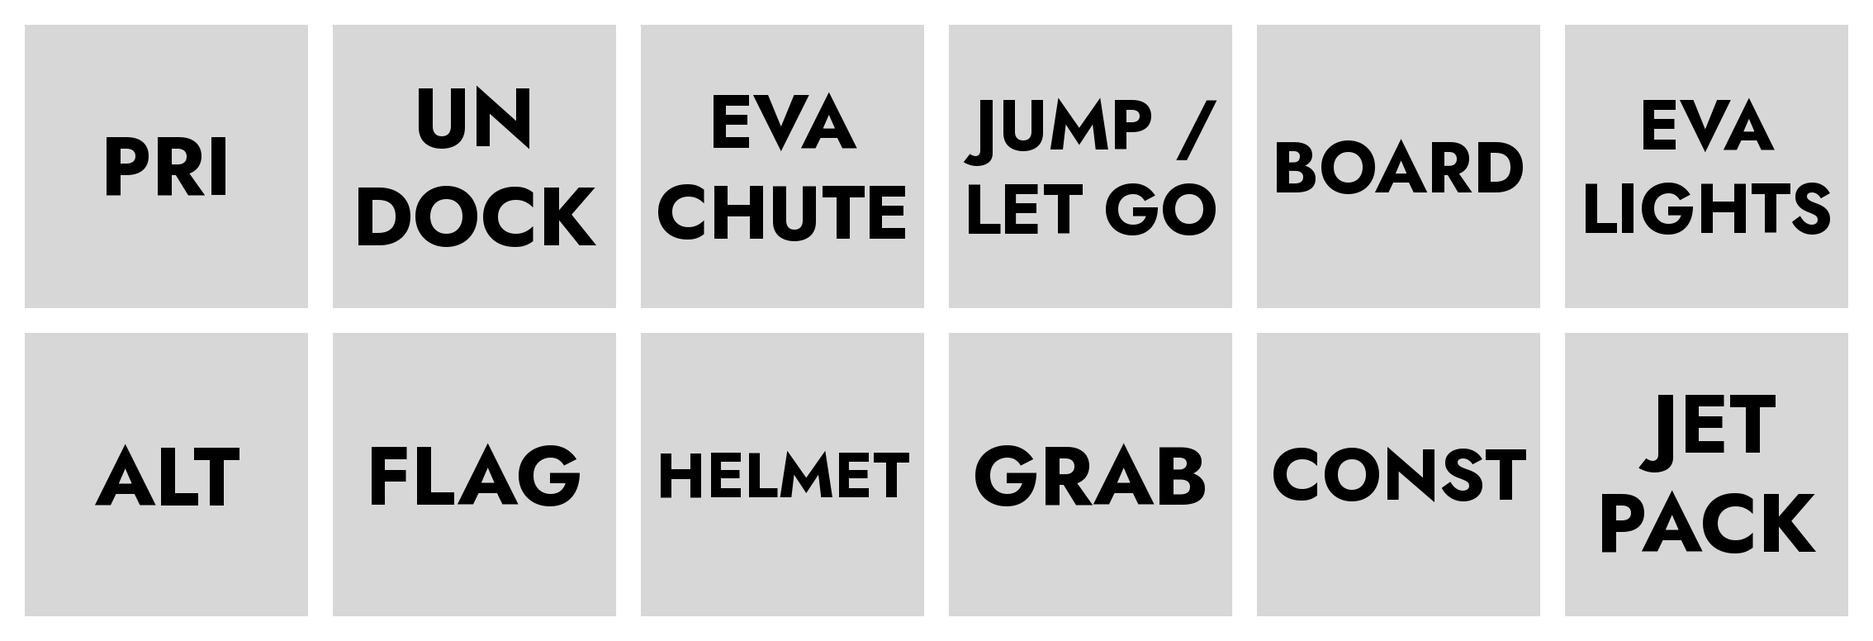
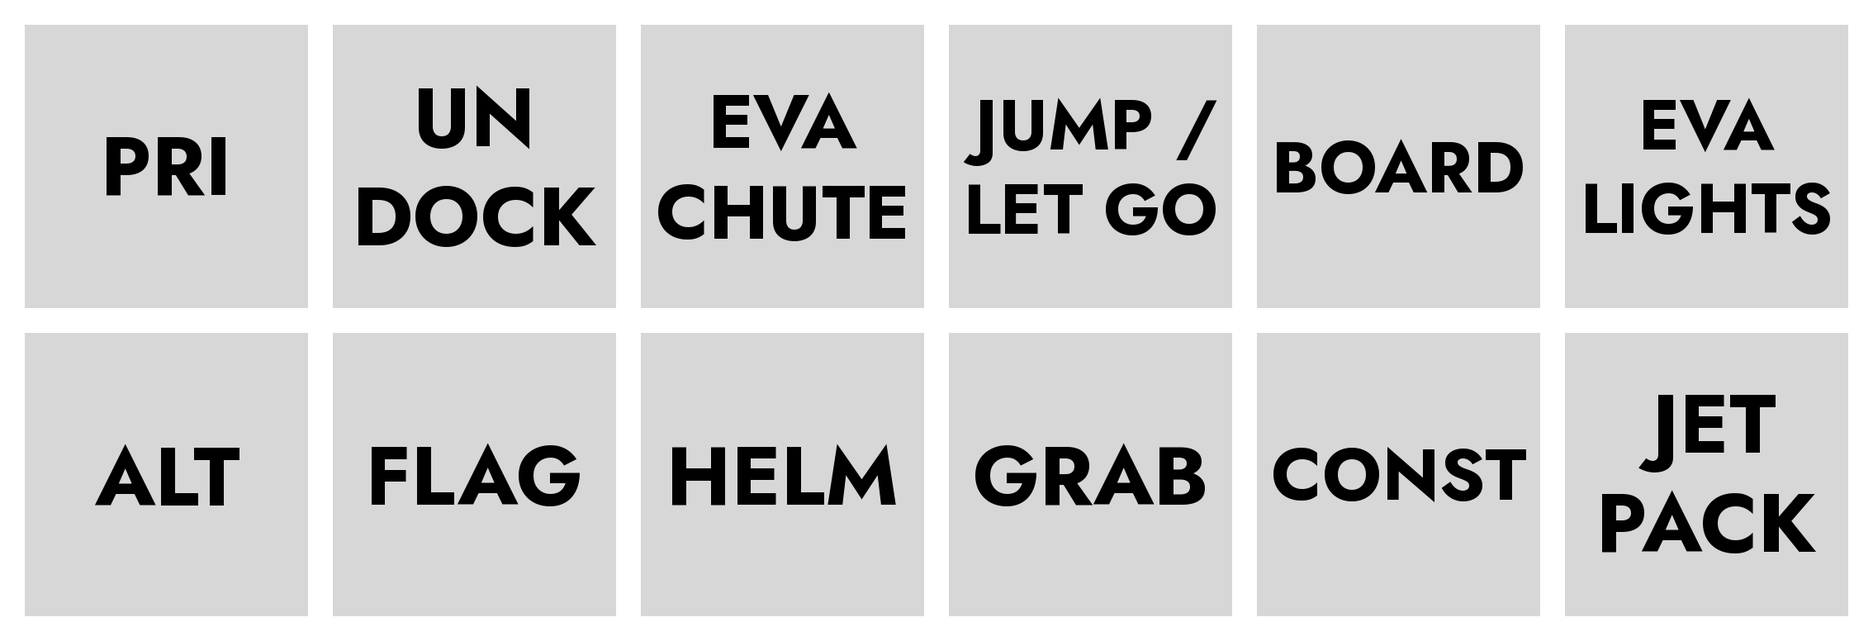
Labels: AUX CTRL B7 is HELM; UNDOCK written UN DOCK throughout
- Panel label artwork: b2_labels.py prints HELM for AUX CTRL B7 (was HELMET);
  B07_HELM.png replaces B07_HELMET.png and the AUX layout preview is regenerated.
  The rest of the B2 set regenerates byte-identical with the same Jost font.
- The Auxiliary Control tester and its simulator name B7 HELM and B8 UN DOCK.
- B8 is written UN DOCK, as on the label and in the manual, in the Hardware
  Inventory, Master Firmware Design, Module UI Reference, the Auxiliary Control
  README, sketch comments and panel layout, and the master README and tests.
  Code identifiers (B_UNDOCK, CAG_UNDOCK) are unchanged.

Master selftest 499/499 and the module-tester simulations pass.

Claude-Session: https://claude.ai/code/session_01AfFKiY5R8Xk7jem2zcWdES

Changed region(s): [[0.3395, 0.6804, 0.4938, 0.8041]]

diff --git a/Software/KCMk1_Master/tools/tests/test_stage4.cpp b/Software/KCMk1_Master/tools/tests/test_stage4.cpp
@@ -1,6 +1,6 @@
 // Stage 4 selftest: the flight panels — Vehicle (BRAKES, toggles, CAG buttons with the
 // control-group offset, the state machines), Stability (SAS modes, HOLD, INVERT),
-// Action, AUX (EVA keys, UNDOCK, control points), Dual Encoder, demo, and keys released
+// Action, AUX (EVA keys, UN DOCK, control points), Dual Encoder, demo, and keys released
 // when a flight ends.
 #include "harness.h"
 #include "switches.h"
@@ -211,7 +211,7 @@ static void testActionAux(Bench &b) {
   eva(false); runFor(20);
   stubSimpit().sent.clear();
   tap(x, 1u << 8);
-  CHECK(sent(CAGTOGGLE_MESSAGE, 37) == 1, "UNDOCK: CAG 37");
+  CHECK(sent(CAGTOGGLE_MESSAGE, 37) == 1, "UN DOCK: CAG 37");
   cags({ 36 }); runFor(20);
   stubSimpit().sent.clear();
   tap(x, 1u << 10);

diff --git a/Documents/Labels/tools/b2_labels.py b/Documents/Labels/tools/b2_labels.py
@@ -31,7 +31,7 @@ MODULES = [
     6: ["SOI"], 7: "<", 8: ["MORN"], 9: ["LOAD"], 10: ["PAUSE"], 11: ["SAVE"]}),
   ("AUX_CTRL_0x26", SQUARE, GRID_1801, {
     0: ["EVA", "LIGHTS"], 1: ["JET", "PACK"], 2: ["BOARD"], 3: ["CONST"], 4: ["JUMP /", "LET GO"],
-    5: ["GRAB"], 6: ["EVA", "CHUTE"], 7: ["HELMET"], 8: ["UN", "DOCK"], 9: ["FLAG"], 10: ["PRI"], 11: ["ALT"]}),
+    5: ["GRAB"], 6: ["EVA", "CHUTE"], 7: ["HELM"], 8: ["UN", "DOCK"], 9: ["FLAG"], 10: ["PRI"], 11: ["ALT"]}),
   ("Vehicle_Control_0x24", WIDE, GRID_1811, {
     0: ["BRAKES"], 1: ["LIGHTS"], 2: ["ANTENNA"], 3: ["LANDING", "GEAR"], 4: ["FUEL", "CELL"],
     5: ["SOLAR", "ARRAY"], 6: ["CARGO", "DOOR"], 7: ["RADIATOR"], 8: ["HEAT", "SHIELD"],

diff --git a/Software/Modules/0_Test Set/tools/tester_sim/scenarios.cpp b/Software/Modules/0_Test Set/tools/tester_sim/scenarios.cpp
@@ -142,7 +142,7 @@ static Scenario* kbc_time() {
 }
 static Scenario* kbc_aux() {
     return new KbcScenario({
-        {"EVA LIGHTS", 0}, {"JET PACK", 1}, {"BOARD", 2}, {"CONST", 3}, {"JUMP", 4}, {"GRAB", 5}, {"EVA CHUTE", 6}, {"HELMET", 7}, {"UNDOCK", 8}, {"FLAG", 9}, {"CP PRI", 10}, {"CP ALT", 11}},
+        {"EVA LIGHTS", 0}, {"JET PACK", 1}, {"BOARD", 2}, {"CONST", 3}, {"JUMP", 4}, {"GRAB", 5}, {"EVA CHUTE", 6}, {"HELM", 7}, {"UN DOCK", 8}, {"FLAG", 9}, {"CP PRI", 10}, {"CP ALT", 11}},
         {{100, 255, 160}, {132, 204, 22}, {0, 255, 0}, {20, 184, 166}, {163, 230, 53}, {80, 200, 160}, {255, 80, 0}, {14, 165, 233}, {255, 160, 0}, {80, 200, 160}, {255, 80, 120}, {236, 72, 153}});
 }
 

diff --git a/Software/KCMk1_Master/panel_aux.cpp b/Software/KCMk1_Master/panel_aux.cpp
@@ -4,7 +4,7 @@
      [EVA] B0 LIGHTS U, B1 JET PACK R, B2 BOARD B, B3 CONST I, B4 JUMP / LET GO Space,
            B5 GRAB F, B6 EVA CHUTE P, B7 HELM O, B9 FLAG G: a key tap each; dark outside
            EVA, and ignored. KSP reports none of them, so each flashes on a press.
-     B8    UNDOCK: CAG 37 toggle, lit while active.
+     B8    UN DOCK: CAG 37 toggle, lit while active.
      B10   [CTRL PT] PRI: CAG 35 } mutually exclusive: a press deactivates the other's
      B11   [CTRL PT] ALT: CAG 36 } group, then activates its own; the active one is lit,
                                    and pressing it does nothing.

diff --git a/Documents/Developer/Module_UI_Reference.md b/Documents/Developer/Module_UI_Reference.md
@@ -195,7 +195,7 @@ These apply to every panel unless its section says otherwise (design §8.1).
 **`CAG = base + (control group − 1) × 40`**, with the control group 1–6 from Dual Encoder ENC1 (§13).
 
 - **Exception: Action Control's AG 1–12 are never offset.** They always send CAG 1–12, whatever the control group.
-- **Everything else is offset:** Vehicle Control (including the heat-shield and parachute state machines), Function Control, and AUX CTRL's UNDOCK, PRI and ALT.
+- **Everything else is offset:** Vehicle Control (including the heat-shield and parachute state machines), Function Control, and AUX CTRL's UN DOCK, PRI and ALT.
 - **In code:** `cagNumber(base)` applies the offset and `cagFixed(n)` does not (`cag.h`).
 
 ### 4.2 Control groups
@@ -245,7 +245,7 @@ The Annunciator shows the current group.
 | 34 | LOCK SURFACES | Function Control | B2 | 34 | 74 | 114 | 154 | 194 | 234 |
 | 35 | [CTRL PT] PRI | AUX CTRL | B10 | 35 | 75 | 115 | 155 | 195 | 235 |
 | 36 | [CTRL PT] ALT | AUX CTRL | B11 | 36 | 76 | 116 | 156 | 196 | 236 |
-| 37 | UNDOCK | AUX CTRL | B8 | 37 | 77 | 117 | 157 | 197 | 237 |
+| 37 | UN DOCK | AUX CTRL | B8 | 37 | 77 | 117 | 157 | 197 | 237 |
 | 38 | AIR BRAKE | Function Control | B5 | 38 | 78 | 118 | 158 | 198 | 238 |
 | 39 | FLAPS | Function Control | B4 | 39 | 79 | 119 | 159 | 199 | 239 |
 
@@ -753,7 +753,7 @@ All CAG numbers carry the control-group offset.
 
 | | C6 | C5 | C4 | C3 | C2 | C1 |
 |---|---|---|---|---|---|---|
-| **R1** | [CTRL PT] PRI | UNDOCK | [EVA] EVA CHUTE | [EVA] JUMP / LET GO | [EVA] BOARD | [EVA] EVA LIGHTS |
+| **R1** | [CTRL PT] PRI | UN DOCK | [EVA] EVA CHUTE | [EVA] JUMP / LET GO | [EVA] BOARD | [EVA] EVA LIGHTS |
 | **R2** | [CTRL PT] ALT | [EVA] FLAG | [EVA] HELM | [EVA] GRAB | [EVA] CONST | [EVA] JET PACK |
 
 | Input | Label | Function | Active when | Action | LED | Colour today |
@@ -766,7 +766,7 @@ All CAG numbers carry the control-group offset.
 | B5 | [EVA] GRAB | Grab | EVA | Key F | As B0 | SEAFOAM |
 | B6 | [EVA] EVA CHUTE | EVA parachute | EVA | Key P | As B0 | AMBER |
 | B7 | [EVA] HELM | Helmet toggle | EVA | Key O | As B0 | SKY |
-| B8 | UNDOCK (new label) | Undock / decouple docking ports | Always | CAG 37 toggle | Lit while the group is active | GOLD |
+| B8 | UN DOCK (new label) | Undock / decouple docking ports | Always | CAG 37 toggle | Lit while the group is active | GOLD |
 | B9 | [EVA] FLAG | Plant flag | EVA | Key G | As B0 | SEAFOAM |
 | B10 | [CTRL PT] PRI | Primary control point | Always | CAG 35 (below) | Lit while active | ROSE |
 | B11 | [CTRL PT] ALT | Alternate control point | Always | CAG 36 (below) | Lit while active | PINK |
@@ -774,7 +774,7 @@ All CAG numbers carry the control-group offset.
 
 - **EVA group (B0–B7, B9):** dark outside EVA, and presses ignored. On EVA each press taps its key; KSP reports none of these states, so each flashes.
 - **PRI / ALT:** pressing one switches to that control point. It deactivates the other's CAG first, then activates its own. Its LED stays lit to show which is active. Pressing the one already active does nothing.
-- **UNDOCK, PRI and ALT** carry the control-group offset.
+- **UN DOCK, PRI and ALT** carry the control-group offset.
 
 ---
 
@@ -980,8 +980,8 @@ The confirmed behaviour is what this document describes. These items do not matc
 |---|---|---|---|---|
 | 1 | Function Control module firmware | **Fixed in v2.1 (2026-10-27).** Was: colour table in the old button order | Each colour with its function (§9.2); FLAPS SEAFOAM | Inventory §11 #4 |
 | 2 | Function Control panel label | B4 reads RW DISABLE | FLAPS | Inventory §11 #13 |
-| 3 | AUX CTRL module firmware | **Fixed in v2.1 (2026-10-27).** Was: B8 Cruise Control, B10 PRI / ALT toggle with a CORAL alternate, B11 Docking Port | B8 UNDOCK GOLD; B10 PRI ROSE; B11 ALT PINK; no alternate colour | Inventory §11 #5 |
-| 4 | AUX CTRL panel label | B8 has no label | UNDOCK | Inventory §11 #13 |
+| 3 | AUX CTRL module firmware | **Fixed in v2.1 (2026-10-27).** Was: B8 Cruise Control, B10 PRI / ALT toggle with a CORAL alternate, B11 Docking Port | B8 UN DOCK GOLD; B10 PRI ROSE; B11 ALT PINK; no alternate colour | Inventory §11 #5 |
+| 4 | AUX CTRL panel label | B8 has no label | UN DOCK | Inventory §11 #13 |
 | 5 | Stability Control module firmware | **Fixed in v2.1 (2026-10-27).** Was: B10 GREEN (RCS); B14 / B15 described as Stage / Stage Enable | B10 HOLD MAGENTA. B14 / B15 are unwired and the master ignores them | Inventory §11 #6 |
 | 6 | Pre-Warp module firmware | **Fixed in v2.1 (2026-10-31).** Was: BTN03 preset 1440 min (an Earth day) | 360 min (1 Kerbin day) | Inventory §11 #3 |
 | 7 | Button, joystick and throttle firmware | **Fixed (KerbalButtonCore 2.3, KerbalJoystickCore 2.1, Throttle 2.2; 2026-10-31).** Was: a fixed 2 s test with `delay()` inside the I2C handler, and the master kept off the bus for 2.1 s | Start / stop, no timeout, not blocking: LTG TEST lights for as long as it is held | Inventory §11 #19, design §6.4 |
@@ -998,7 +998,7 @@ The confirmed behaviour is what this document describes. These items do not matc
 | # | Item | Status |
 |---|---|---|
 | 1 | Throttle Module acts on its own buttons (§15 #9). **Decided:** the master owns the lever; the module only reports its buttons (Throttle v2.1) | Closed (v6.1) |
-| 2 | Colours for Function Control FLAPS, Stability HOLD, AUX UNDOCK and AUX ALT (§15 #1, #3, #5). **Decided:** FLAPS SEAFOAM, HOLD MAGENTA, UNDOCK GOLD, ALT PINK | Closed (v6.1) |
+| 2 | Colours for Function Control FLAPS, Stability HOLD, AUX UN DOCK and AUX ALT (§15 #1, #3, #5). **Decided:** FLAPS SEAFOAM, HOLD MAGENTA, UN DOCK GOLD, ALT PINK | Closed (v6.1) |
 | 3 | HOLD and the console's A/P OFF. **Decided:** A/P OFF releases HOLD in every mode, SPC included, like the stick's A/P disconnect (Inventory §8.10). Master v0.8.1 | Closed (v6.1) |
 | 4 | SWITCH ERR autopilot exception. Inventory §8.4 and design §8.3: "SAS or RCS while an autopilot that changes them is engaged". The code skips SAS while any autopilot or HOLD is engaged, and always checks RCS (no autopilot changes RCS). Same effect today; noted in case an autopilot ever uses RCS | Noted |
 | 5 | Camera mode on EVA. **Decided:** camera mode works on EVA too; the translation stick's EVA keys pause while its button is held (§10.2). Master v0.8.1 | Closed (v6.1) |
@@ -1025,7 +1025,7 @@ Superseded by the confirmed panel review (Inventory §10) and the master design.
 
 | Removed | Now |
 |---|---|
-| AUX CTRL B8 Cruise Control | B8 UNDOCK (CAG 37). Rover speed hold is HOLD in RVR (§8.1) |
+| AUX CTRL B8 Cruise Control | B8 UN DOCK (CAG 37). Rover speed hold is HOLD in RVR (§8.1) |
 | AUX CTRL B10 PRI / ALT toggle; B11 Docking Port control point | B10 PRI (CAG 35), B11 ALT (CAG 36); the docking-port control point is gone |
 | Stability Control B10 RCS | B10 HOLD. RCS is the Switch Group 2 RCS switch |
 | Stability Control B14 Stage, B15 Stage Enable | STAGE on the B2 safe line, with a hardware arming switch (§7) |
@@ -1062,6 +1062,6 @@ Superseded by the confirmed panel review (Inventory §10) and the master design.
 | 5.8 | 2026-06-28 | AUX CTRL 12-button firmware; `KMC_SEAFOAM` added |
 | 5.9 | 2026-06-28 | `ACTIVE_ALT` LED state added for the AUX CTRL CP toggle |
 | 6.0 | 2026-10-26 | **Rewritten from the confirmed panel review (`Hardware_Inventory.md` §7, §8, §10, §11), `Master_Firmware_Design.md` §8–§11 and the master firmware in `Software/KCMk1_Master`.** New: per-panel slot maps (A1, A2, B1, B2); confirmed button layouts and labels for every module; Switch Group 1 in its confirmed order with A/P INHIB / ARM and ENGINE SAFE / ARM; the switch rule and SWITCH ERR; the mode selector; ABORT and STAGE on the safe lines; control modes, HOLD per mode and autopilot authority; sticks (trim, stick button by mode, camera, EVA keys, precision); the throttle rules; the Dual Encoder control group; demo mode; CAG numbering with Action Control fixed; firmware and label gaps; open items. Removed: Cruise Control, Stage / Stage Enable on Stability, RW DISABLE, the RCS button, the pilot-input autopilot override, and the other superseded content listed in §17. Board numbers corrected (Throttle 1871 / 1872) |
-| 6.1 | 2026-10-27 | **Open items 1, 2, 3, 5 and 6 decided.** The Throttle Module only reports its buttons; the master moves the lever (§12.2, Throttle v2.1). Colours: FLAPS SEAFOAM, HOLD MAGENTA, UNDOCK GOLD, ALT PINK; the Function Control colours follow the confirmed layout and AUX's CORAL alternate is gone (Function / Stability / AUX v2.1). A console's A/P OFF releases HOLD in every mode (§8.2). Camera mode works on EVA (§10.2). The AIRBRK indicator follows the control group (§4.3, InfoDisp v1.17). §15 #1, #3, #5, #9 fixed. Master v0.8.1 |
+| 6.1 | 2026-10-27 | **Open items 1, 2, 3, 5 and 6 decided.** The Throttle Module only reports its buttons; the master moves the lever (§12.2, Throttle v2.1). Colours: FLAPS SEAFOAM, HOLD MAGENTA, UN DOCK GOLD, ALT PINK; the Function Control colours follow the confirmed layout and AUX's CORAL alternate is gone (Function / Stability / AUX v2.1). A console's A/P OFF releases HOLD in every mode (§8.2). Camera mode works on EVA (§10.2). The AIRBRK indicator follows the control group (§4.3, InfoDisp v1.17). §15 #1, #3, #5, #9 fixed. Master v0.8.1 |
 | 6.2 | 2026-10-31 | **Module firmware gaps closed (§15 #6, #7, #8, #10).** Pre-Warp BTN03 360 min (v2.1). Annunciator tile A/P ARM (v3.9). The bulb test is start / stop and does not block (KerbalButtonCore 2.3, KerbalJoystickCore 2.1, Throttle 2.2); LTG TEST lights for as long as it is held, at least 0.5 s. The Throttle holds the lever under an autopilot (`CMD_SET_LEVER_HOLD`, at most 0.5 s against a hand, back on release). The Info Displays name reasons 22–24. Master v0.8.2 |
 | **6.3** | **2026-10-31** | **Displays follow the demo flag only (§14, §15 #11 fixed).** In demo every display keeps its Simpit link and takes only the lifecycle; leaving demo is a fresh start on the current scene. The Resource Display keeps the vessel's bar layout across demo. Annunciator v3.10.0 (and its DOCK tile toggles on a tap), Info Display v1.18.0, Resource Display v3.15.0. Master v0.9.0 |

diff --git a/Software/Modules/Auxiliary Control/README.md b/Software/Modules/Auxiliary Control/README.md
@@ -12,7 +12,7 @@
 
 ## Overview
 
-The Auxiliary Control module (AUX CTRL) provides twelve mixed-function buttons for Kerbal Space Program: EVA kerbal controls, undocking, and vessel control-point selection. The functions are grouped by game context — most buttons act only during EVA, and UNDOCK and the two control-point buttons (PRI, ALT) work in all modes (Module UI Reference v6.0 §9.7).
+The Auxiliary Control module (AUX CTRL) provides twelve mixed-function buttons for Kerbal Space Program: EVA kerbal controls, undocking, and vessel control-point selection. The functions are grouped by game context — most buttons act only during EVA, and UN DOCK and the two control-point buttons (PRI, ALT) work in all modes (Module UI Reference v6.0 §9.7).
 
 This module replaces the former standalone 6-button EVA module (PCB KC-01-1852). It is now a standard 12-button KerbalButtonCore module built on the KC-01-1802 Button Module Base, identical in form to Action Control and UI Control.
 
@@ -48,7 +48,7 @@ Physical panel orientation: 2 rows × 6 columns. Column 6 is leftmost, Column 1 
             (left)                                                          (right)
           +-----------+-----------+-----------+-----------+-----------+-----------+
  Row 1    |    B10    |    B8     |    B6     |    B4     |    B2     |    B0     |
-          | CTRL PT   | UNDOCK    | EVA Chute | Jump /    | Board     | EVA       |
+          | CTRL PT   | UN DOCK   | EVA Chute | Jump /    | Board     | EVA       |
           | PRI       | (GOLD)    | (AMBER)   | Let Go    | Craft     | Lights    |
           | (ROSE)    |           |           |(CHARTREUSE)| (GREEN)  | (MINT)    |
           +-----------+-----------+-----------+-----------+-----------+-----------+
@@ -79,7 +79,7 @@ The function is resolved controller-side; the module reports button events only.
 | B5 | BUTTON06 | Grab | SEAFOAM | isEVA | KEYBOARD_EMULATOR F |
 | B6 | BUTTON07 | EVA Chute | AMBER | isEVA | KEYBOARD_EMULATOR P |
 | B7 | BUTTON08 | Helmet Toggle | SKY | isEVA | KEYBOARD_EMULATOR O |
-| B8 | BUTTON09 | UNDOCK | GOLD | all modes | Toggles base CAG 37; lit while KSP reports the group active |
+| B8 | BUTTON09 | UN DOCK | GOLD | all modes | Toggles base CAG 37; lit while KSP reports the group active |
 | B9 | BUTTON10 | Plant Flag | SEAFOAM | isEVA | KEYBOARD_EMULATOR G (controller flashes briefly on press, returns to ENABLED) |
 | B10 | BUTTON11 | Control point PRI | ROSE | all modes | Base CAG 35 (deactivates ALT, then activates PRI) |
 | B11 | BUTTON12 | Control point ALT | PINK | all modes | Base CAG 36 (deactivates PRI, then activates ALT) |
@@ -89,15 +89,15 @@ KBC indices 12–15 (BUTTON13–16) are no-connects on the PCB.
 #### Context Notes
 
 - **EVA buttons (B0–B7, B9)** act only when the controller has `isEVA = true`. With no kerbal on EVA the master leaves these dark (OFF) and ignores presses (Module UI Reference §9.7).
-- **UNDOCK (B8)** works in all modes. Each press toggles base CAG 37 (undock / decouple docking ports); the LED is lit while KSP reports the group active. The panel has no UNDOCK label yet (Module UI Reference §15).
+- **UN DOCK (B8)** works in all modes. Each press toggles base CAG 37 (undock / decouple docking ports); the LED is lit while KSP reports the group active. The panel has no UN DOCK label yet (Module UI Reference §15).
 - **Control-Point buttons (B10/B11)** work in all modes (see Control Point Logic below).
-- **UNDOCK, PRI and ALT** carry the control-group offset: CAG = base + (control group − 1) × 40 (Module UI Reference §4).
+- **UN DOCK, PRI and ALT** carry the control-group offset: CAG = base + (control group − 1) × 40 (Module UI Reference §4).
 - **Plant Flag (B9)** is momentary — the controller flashes the button briefly on press, then returns it to ENABLED.
 
 ### Color Design Notes
 
 - **EVA cluster (B0–B7, B9)** — each EVA action carries a distinct hue so the active kerbal action is identifiable at a glance: EVA Lights (MINT), Jetpack Enable (LIME), Board Craft (GREEN), EVA Construction (TEAL), Jump / Let Go (CHARTREUSE), Grab (SEAFOAM), EVA Chute (AMBER), Helmet Toggle (SKY), Plant Flag (SEAFOAM). Grab and Plant Flag share SEAFOAM as paired "interact with the world" actions.
-- **UNDOCK (GOLD)** — the colour this position already had as Cruise Control, kept for UNDOCK.
+- **UN DOCK (GOLD)** — the colour this position already had as Cruise Control, kept for UN DOCK.
 - **Control Point (ROSE / PINK)** — the two control-point buttons share the warm rose/pink family. ROSE is PRI (B10), PINK is ALT (B11). See Control Point Logic.
 
 ### Control Point Logic
@@ -146,7 +146,7 @@ PCB connectors P2/P3/P4 map BUTTON01–BUTTON12 to KBC indices 0–11 in order.
 | P3 | BUTTON06 | 5 | Grab |
 | P3 | BUTTON07 | 6 | EVA Chute |
 | P3 | BUTTON08 | 7 | Helmet Toggle |
-| P4 | BUTTON09 | 8 | UNDOCK |
+| P4 | BUTTON09 | 8 | UN DOCK |
 | P4 | BUTTON10 | 9 | Plant Flag |
 | P4 | BUTTON11 | 10 | Control point PRI |
 | P4 | BUTTON12 | 11 | Control point ALT |
@@ -238,4 +238,4 @@ Module Type ID 0x07 · firmware major/minor · capability flags 0x00
 |---|---|---|
 | 1.0 | 2026-06-28 | Initial release. Replaces the former standalone 6-button EVA module (KC-01-1852) with a standard 12-button KerbalButtonCore module on the KC-01-1802 Button Module Base. Adds Cruise Control (B8) and the control-point cluster (B10 CP Toggle PRI/ALT, B11 CP Docking Port). KerbalButtonCore v2.1.0, I2C protocol v2.6; core LED states only (no extended states). |
 | 1.1 | 2026-06-28 | CP Toggle (B10) now renders the canonical CORAL Alternate colour via the new `KBC_LED_ACTIVE_ALT` state (KerbalButtonCore v2.2 / KerbalModuleCommon v1.6), using the sketch's `altColors` array — ROSE for Primary (`ACTIVE`), CORAL for Alternate (`ACTIVE_ALT`). No longer ROSE-only. |
-| 2.0 | 2026-10-27 | B8 is UNDOCK (GOLD, base CAG 37 toggle, all modes), replacing Cruise Control. B10 is control point PRI (ROSE, base CAG 35) and B11 control point ALT (PINK, base CAG 36), two separate buttons replacing the CP Toggle PRI / ALT and CP Docking Port scheme (Module UI Reference v6.0 §9.7). The CORAL alternate colour, the `altColors` array and the use of `KBC_LED_ACTIVE_ALT` are removed. |
+| 2.0 | 2026-10-27 | B8 is UN DOCK (GOLD, base CAG 37 toggle, all modes), replacing Cruise Control. B10 is control point PRI (ROSE, base CAG 35) and B11 control point ALT (PINK, base CAG 36), two separate buttons replacing the CP Toggle PRI / ALT and CP Docking Port scheme (Module UI Reference v6.0 §9.7). The CORAL alternate colour, the `altColors` array and the use of `KBC_LED_ACTIVE_ALT` are removed. |

diff --git a/Documents/Developer/Hardware_Inventory.md b/Documents/Developer/Hardware_Inventory.md
@@ -514,7 +514,7 @@ The master pushes it frames while the screen is open (Info Display v1.18.0, mast
 | 1 | Demo and debug modes | Settled (§8.8, §8.9) |
 | 2 | Stability Control B10 | Settled: HOLD (§8.7) |
 | 3 | Function Control B4 | Settled: FLAPS (§10.5) |
-| 4 | AUX CTRL B8 | Settled: UNDOCK (§10.1) |
+| 4 | AUX CTRL B8 | Settled: UN DOCK (§10.1) |
 | 5 | Rotation stick button | Settled: by control mode (§10.8) |
 | 6 | Sys Info Display | Settled (§8.12); protocol defined with the firmware design |
 | 7 | Input test screen: detailed design | Settled (§8.11), as built in Info Display v1.18.0 and master v0.9.0 |
@@ -564,15 +564,15 @@ Labels: **[GROUP]** is a group label printed on the panel, not on the button; CA
 | B5 | [EVA] GRAB | Grab | EVA | Key F |
 | B6 | [EVA] EVA CHUTE | EVA parachute | EVA | Key P |
 | B7 | [EVA] HELM | Helmet toggle | EVA | Key O |
-| B8 | **UNDOCK** (new label) | Undock / decouple docking ports | Always | CAG 37 (the freed docking-port group) |
+| B8 | **UN DOCK** (new label) | Undock / decouple docking ports | Always | CAG 37 (the freed docking-port group) |
 | B9 | [EVA] FLAG | Plant flag | EVA | Key G |
 | B10 | [CTRL PT] PRI | Primary control point | Always | CAG 35 |
 | B11 | [CTRL PT] ALT | Alternate control point | Always | CAG 36 |
 
 **Changes from the reference / firmware:**
-- B8 Cruise Control is removed; B8 becomes UNDOCK.
+- B8 Cruise Control is removed; B8 becomes UN DOCK.
 - B10 is no longer a PRI / ALT toggle; it is PRI only.
-- B11 is ALT (was Docking Port, CAG 37). CAG 37 moves to UNDOCK on B8.
+- B11 is ALT (was Docking Port, CAG 37). CAG 37 moves to UN DOCK on B8.
 
 **Behaviour:**
 - **EVA group (B0–B7, B9):** dark outside EVA, and presses ignored.
@@ -813,12 +813,12 @@ Collected from this review; each is a separate piece of work.
 | 2 | Annunciator firmware | **Touch the DOCK tile to toggle it.** Docking is detected from Simpit's vessel-change events (dock / undock), which are missed, for example after switching vessel, so the pilot needs a way to correct the light. A later real dock / undock event overrides the touch setting. **Done** (v3.10.0, 2026-10-31): flight scene only |
 | 3 | Pre-Warp module firmware | BTN03 preset 1440 → 360 min (1 Kerbin day). **Done** (v2.1, 2026-10-31) |
 | 4 | Function Control module firmware | Colour table swapped to the confirmed layout (§10.5); FLAPS SEAFOAM. **Done** (v2.1, 2026-10-27) |
-| 5 | AUX CTRL module firmware | B8 cleared (no Cruise); B10 PRI, B11 ALT colours (§10.1): UNDOCK GOLD, PRI ROSE, ALT PINK, no alternate colour. **Done** (v2.1, 2026-10-27) |
+| 5 | AUX CTRL module firmware | B8 cleared (no Cruise); B10 PRI, B11 ALT colours (§10.1): UN DOCK GOLD, PRI ROSE, ALT PINK, no alternate colour. **Done** (v2.1, 2026-10-27) |
 | 6 | Stability Control module firmware | B10 HOLD colour (was RCS): MAGENTA. **Done** (v2.1, 2026-10-27) |
 | 7 | Module UI Reference | Rewritten from this inventory: Switch Groups 1 / 2, every button map, mode selector, staging, safe switches, PCB numbers |
 | 8 | Hardware Reference | Rewritten from this inventory (§6 lists the differences) |
 | 9 | Annunciator reference and user manual | A/P ARM tile, DOCK touch. **Done** (Caution & Warning Reference for v3.10.0, 2026-10-31; A/P ARM done earlier with v3.9) |
-| 13 | Panel labels | Function B4 RW DISABLE → FLAPS; AUX B8 new label UNDOCK |
+| 13 | Panel labels | Function B4 RW DISABLE → FLAPS; AUX B8 new label UN DOCK |
 | 14 | Info Display 1 firmware + I2C spec | Input test screen, its two-finger gesture and its frame (§8.11). **Done** (InfoDisp v1.18.0, master v0.9.0, I2C spec v2.20, 2026-10-31): three frames, sync 0xAB (inputs, modules, displays), while the display reports screen 18 |
 | 15 | Throttle Module firmware | Hold the lever at the autopilot's position against the pilot, with a stall limit (§8.10). **Done** (v2.2, 2026-10-31): new `CMD_SET_LEVER_HOLD` (0x0E), at most 0.5 s per touch, back to the target on release; the same limit now applies to DISABLED's resist at 0 |
 | 16 | ~~Annunciator, Info Display, Resource Display firmware~~ | ~~Report their own Simpit link state~~: not needed, every display already reports it (status flags bit 0) |

diff --git a/Documents/Developer/Master_Firmware_Design.md b/Documents/Developer/Master_Firmware_Design.md
@@ -345,7 +345,7 @@ The button maps, labels and layouts are in **Inventory §10** and are not repeat
 - **Demo LEDs:** a usable button is backlit and ACTIVE while held. A switch still darkens the buttons it gates: CHUTE SAFE the chutes, SAS OFF the SAS modes. The EVA group is backlit in demo.
 - **CAG buttons send CAGTOGGLE;** the state machines send only CAGACTIVATE (and CAGDEACTIVATE for the 2 s reset).
 - **Before KSP reports the groups** in a flight scene, every CAG button shows backlit. The master asks for CAGSTATUS, ACTIONSTATUS and SAS_MODE_INFO on entering a flight.
-- **The control-group offset applies to UNDOCK too:** CAG 37 + offset, like every CAG button but Action Control's.
+- **The control-group offset applies to UN DOCK too:** CAG 37 + offset, like every CAG button but Action Control's.
 - **Held keys** (INVERT's F) are released when the flight ends, the link drops or demo starts.
 
 ### 8.2 Switch Group 1 (Function Control B16–B23)
@@ -543,7 +543,7 @@ The availability rules are checked against Simpit on the bench.
 
 | Panel | Behaviour |
 |---|---|
-| **AUX CTRL** | **[EVA] group** (B0–B7, B9): EVA keys, dark outside EVA. **B8 UNDOCK:** CAG 37. **B10 PRI / B11 ALT:** control points (CAG 35 / 36), mutually exclusive; the LED shows the active one, and pressing the active one does nothing |
+| **AUX CTRL** | **[EVA] group** (B0–B7, B9): EVA keys, dark outside EVA. **B8 UN DOCK:** CAG 37. **B10 PRI / B11 ALT:** control points (CAG 35 / 36), mutually exclusive; the LED shows the active one, and pressing the active one does nothing |
 | **Function Control** | CAG buttons per Inventory §10.5. **B4 = FLAPS** (CAG 39) |
 | **UI Control** | Keyboard and Simpit navball cycle per Inventory §10.7. *(stage 6)* The screenshot macro's three keys go out 150 ms apart |
 | **Throttle** | Lever, 100 % / UP / DOWN / 0 % buttons, all under the ENGINE and autopilot rules. **FINE** is dropped while an autopilot owns the throttle and restored after. *(stage 5)* The module only reports its buttons; the master moves the lever (100 % / 0 %, UP / DOWN 10 %), and the throttle follows the lever. The buttons are ignored in FINE, where a lever target is not the throttle |
@@ -837,9 +837,9 @@ From Inventory §11:
 | 5 | Throttle module | Hold the lever against the pilot with a stall limit; return it on release: `CMD_SET_LEVER_HOLD`, at most 0.5 s per touch (**done**, v2.2, 2026-10-31). Its buttons are only reported (v2.1) |
 | 6 | Pre-Warp module | BTN03 preset 1440 → 360 min (1 Kerbin day). **Done** (v2.1) |
 | 7 | Function Control module | Colour table to the confirmed layout; B4 FLAPS SEAFOAM. **Done** (v2.1) |
-| 8 | AUX CTRL module | B8 UNDOCK GOLD; B10 PRI ROSE, B11 ALT PINK. **Done** (v2.1) |
+| 8 | AUX CTRL module | B8 UN DOCK GOLD; B10 PRI ROSE, B11 ALT PINK. **Done** (v2.1) |
 | 9 | Stability Control module | B10 HOLD MAGENTA. **Done** (v2.1) |
-| 10 | Panel labels | Function B4 RW DISABLE → FLAPS; AUX B8 UNDOCK |
+| 10 | Panel labels | Function B4 RW DISABLE → FLAPS; AUX B8 UN DOCK |
 | 11 | I2C Protocol Specification | Input test frame: **done** (2.20, with the BACKLIGHT frame). The Sys Info protocol is in, §15.4; EVA lifecycle, LED nibble order and the master's start-up sequence in 2.16 |
 | 12 | Autopilot design docs | Authority rule (§11.3) |
 | 13 | Module UI Reference, Hardware Reference | Rewritten from the inventory |

diff --git a/Software/KCMk1_Master/README.md b/Software/KCMk1_Master/README.md
@@ -39,7 +39,7 @@ The new master firmware for the Kerbal Controller Mk1: Teensy 4.1 on the Ctrl Mo
 | Vehicle Control | `panel_vehicle.cpp` | BRAKES held (with the BRAKE switch rule), LIGHTS and GEAR toggles, CAG 13–18, HEAT SHIELD / MAIN / DROGUE state machines from KSP's group states (act on release, 2 s hold resets; chutes need CHUTE ARM) |
 | Stability Control | `panel_stability.cpp`, `hold.*` | SAS modes (dark with SAS OFF or when unavailable), HOLD (SPC: SAS stability assist; PLN / RVR from stage 7), INVERT (F held) |
 | Action Control | `panel_action.cpp` | AG 1–12 = CAG 1–12, no offset |
-| AUX CTRL | `panel_aux.cpp` | EVA keys (dark outside EVA), UNDOCK, PRI / ALT control points |
+| AUX CTRL | `panel_aux.cpp` | EVA keys (dark outside EVA), UN DOCK, PRI / ALT control points |
 | Dual Encoder | `panel_encoders.cpp` | Control group 1–6, camera next / previous / reset |
 
 | Control channels (stage 5) | `ksp_frame.*`, `lever.h` | Rotation, translation, wheel, camera and throttle merged every pass and sent on a change; neutral first in each flight; sticks ignored under an autopilot or HOLD; throttle 0 unless ENGINE ARMED, else the autopilot owner (lever driven to match) or the lever; the autopilot interface (`thrAutoThrottle`, `rotSetAutoAxes`, `wheelSetAuto`, …) |
@@ -123,7 +123,7 @@ python3 tools/host_build.py --all --simpit PATH/src       # also compile against
   - flight panels (stage 4):
     - Vehicle: CAG buttons and the control-group offset, toggles, LEDs from KSP, BRAKES with REL and LOCK, the state machines (deploy, cut, nothing, 2 s reset, CHUTE SAFE);
     - Stability: SAS modes with the switch and availability, INVERT and SWITCH ERR, HOLD (engage, restore SAS, A/P INHIB, mode change, PLN, MSTR RESET);
-    - Action: no offset; AUX: EVA keys, flash, UNDOCK, PRI / ALT; Dual Encoder: group wrap, camera keys;
+    - Action: no offset; AUX: EVA keys, flash, UN DOCK, PRI / ALT; Dual Encoder: group wrap, camera keys;
     - held keys released when the flight ends; demo LEDs.
   - sticks and throttle (stage 5):
     - neutral channels on entering a flight, nothing sent while nothing moves;
